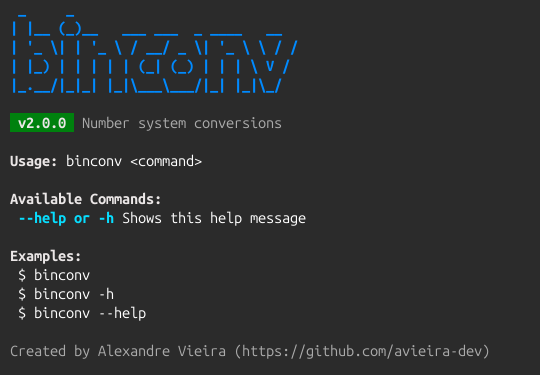
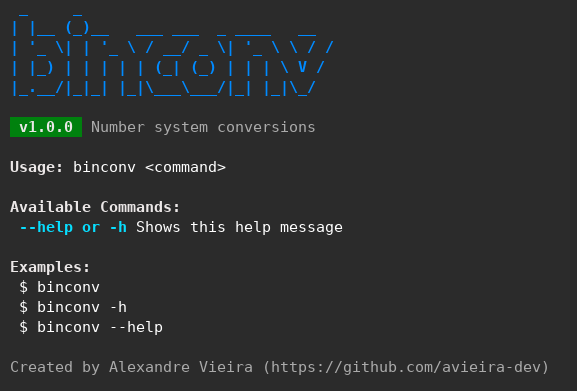
fix(readme): fix incorrect version (v2.0.0 -> v1.0.0)

diff --git a/src/banner.c b/src/banner.c
@@ -28,7 +28,7 @@ void binconv_print_banner(void) {
 
     printf(COLOR_RESET "\n");
 
-    printf(COLOR_BG_GREEN COLOR_BOLD_WHITE " v2.0.0 " COLOR_RESET);
+    printf(COLOR_BG_GREEN COLOR_BOLD_WHITE " v1.0.0 " COLOR_RESET);
     printf(COLOR_DIM " Number system conversions" COLOR_RESET);
 
     printf("\n\n");

diff --git a/README.md b/README.md
@@ -2,7 +2,7 @@
     <h1>binconv</h1>
     <p>A lightweight command-line tool for number system conversions.</p>
     <p>
-        <img src="https://img.shields.io/badge/version-v2.0.0-4c1?style=flat-square"/>
+        <img src="https://img.shields.io/badge/version-v1.0.0-4c1?style=flat-square"/>
         <img src="https://img.shields.io/badge/status-stable-2ea44f?style=flat-square"/>
         <img src="https://img.shields.io/badge/platform-Linux-FCC624?style=flat-square&logo=linux&logoColor=black"/>
         <img src="https://img.shields.io/badge/maintenance-active-1f6feb?style=flat-square"/>
@@ -19,7 +19,7 @@
 **binconv** is a lightweight CLI utility designed to convert numbers between different numeral systems, currently supporting decimal and binary conversions.
 
 > [!IMPORTANT]  
-> **binconv v2.0.0** is now stable.
+> **binconv v1.0.0** is now stable.
 
 ---
 
